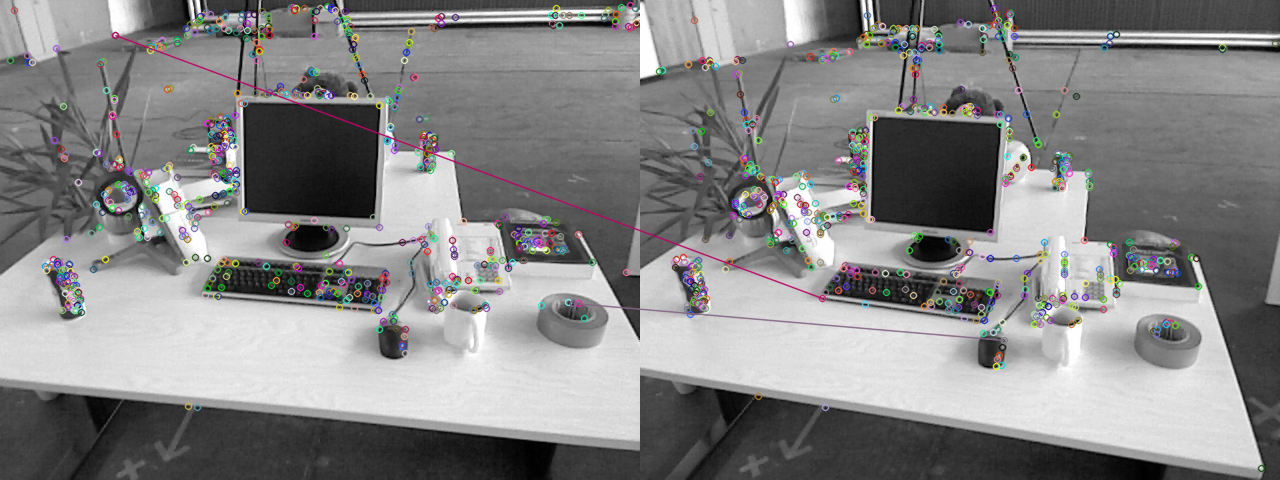
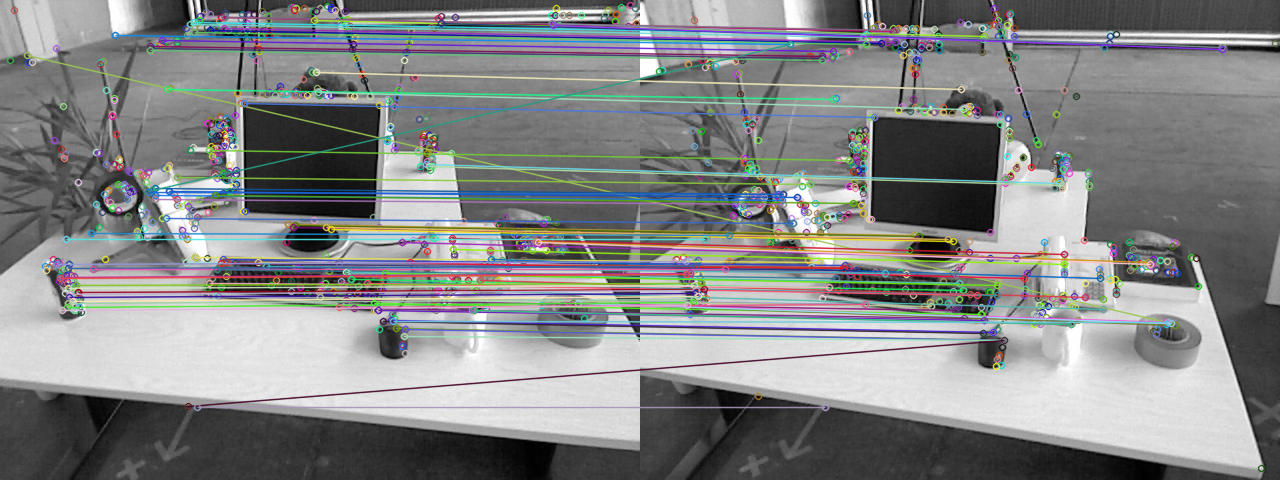
t1: ORB_self

diff --git a/PA5/t1/computeORB.cpp b/PA5/t1/computeORB.cpp
@@ -107,20 +107,26 @@ int main(int argc, char **argv) {
 // compute the angle
 void computeAngle(const cv::Mat &image, vector<cv::KeyPoint> &keypoints) {
     int half_patch_size = 8;
-    int MaxRows = image.rows;
-    int MaxCols = image.cols;
     for (auto &kp : keypoints) {
-	// START YOUR CODE HERE (~7 lines)
-	    if (kp.pt.x<8 || kp.pt.y < 8 || kp.pt.y>MaxCols-7 || kp.pt.x>MaxRows)
+        // START YOUR CODE HERE (~7 lines)
+        float m01 = 0, m10 = 0;
+	    if (kp.pt.x < half_patch_size || kp.pt.y < half_patch_size ||
+	        kp.pt.x > image.cols - half_patch_size || kp.pt.y > image.rows - half_patch_size)
             continue;
-	    double m01 = 0; double m10 = 0;
-	    for(int x = kp.pt.x-half_patch_size; x < kp.pt.x+half_patch_size; x++)
-	        for(int y = kp.pt.y - half_patch_size; y < kp.pt.y+half_patch_size; y++)
+	    else{
+	        for(int row = -half_patch_size; row < half_patch_size; ++row)
 	        {
-	            m01 += y*image.at<double>(y, x);
-	            m10 += x*image.at<double>(y, x);
+	            const auto *row_ptr = image.ptr<uchar>(kp.pt.y + row);
+	            for(int col = -half_patch_size; col < half_patch_size; ++col)
+	            {
+	                const auto *data_ptr = &row_ptr[size_t(kp.pt.x + col) * image.channels()];
+	                uchar pixel = *data_ptr;
+	                m10 += col * pixel; // here col is offset of x axis
+	                m01 += row * pixel; // here row is offset of y axis
+	            }
 	        }
-        kp.angle = 180/pi*std::atan2(m01, m10); // compute kp.angle
+	    }
+	    kp.angle = std::atan2(m01, m10)/pi*360;
         // END YOUR CODE HERE
     }
     return;
@@ -391,15 +397,15 @@ int ORB_pattern[256 * 4] = {
 void computeORBDesc(const cv::Mat &image, vector<cv::KeyPoint> &keypoints, vector<DescType> &desc) {
     for (auto &kp: keypoints) {
         DescType d(256, false); // vector<bool>
-        float CosTheta = std::cos(kp.angle*pi/180);
-        float SinTheta = std::sin(kp.angle*pi/180);
+        float CosTheta = std::cos(kp.angle*pi/180.0);
+        float SinTheta = std::sin(kp.angle*pi/180.0);
         for (int i = 0; i < 256; i++) {
             // START YOUR CODE HERE (~7 lines)
-            cv::Point2f p(ORB_pattern[i+0],ORB_pattern[i+1]);
-            cv::Point2f q(ORB_pattern[i+2], ORB_pattern[i+3]);
+            cv::Point2f p(ORB_pattern[4*i],ORB_pattern[4*i+1]);
+            cv::Point2f q(ORB_pattern[4*i+2], ORB_pattern[4*i+3]);
             cv::Point2f pp = cv::Point2f(CosTheta*p.x-SinTheta*p.y, SinTheta*p.x+CosTheta*p.y) + kp.pt;
             cv::Point2f qq = cv::Point2f(CosTheta*q.x-SinTheta*q.y, SinTheta*q.x+CosTheta*q.y) + kp.pt;
-            if(pp.x<0 || pp.y<0 || qq.x<0 || qq.y<0 ||
+            if(pp.x < 0 || pp.y < 0 || qq.x < 0 || qq.y < 0 ||
                 pp.x >= image.cols || pp.y >= image.rows || qq.x >= image.cols || qq.y >= image.rows)
             {
                 d.clear();
@@ -407,11 +413,7 @@ void computeORBDesc(const cv::Mat &image, vector<cv::KeyPoint> &keypoints, vecto
             }
             else
             {
-                if(image.at<uchar>(pp.y, pp.x) <= image.at<uchar>(qq.y, qq.x))
-                    d[i] = 1;
-                else{
-                    d[i] = 0;// if kp goes outside, set d.clear()
-                }
+                d[i] = image.at<uchar>(pp.y, pp.x) <= image.at<uchar>(qq.y, qq.x);
             }
 	    // END YOUR CODE HERE
         }
@@ -434,27 +436,18 @@ void bfMatch(const vector<DescType> &desc1, const vector<DescType> &desc2, vecto
     // find matches between desc1 and desc2.
     for(int i = 0; i < desc1.size(); i++)
     {
-        if(desc1.at(i).size() == 0)
-        {
+        if(desc1.at(i).empty())
             continue;
-        }
         int Min_d = 50;
         int Min_j = 0;
         for(int j = 0; j < desc2.size(); j++)
         {
             if(desc2.at(j).size() == 0)
-            {
                 continue;
-            }
             int S = 0;
             for(int b = 0; b < 256; b++)
             {
-                int B1 = desc1.at(i).at(b);
-                int B2 = desc2.at(j).at(b);
-                if (B1 - B2 == 0)
-                {
-                    S++;
-                }
+                S += (desc1[i][b] == desc2[j][b]) ? 0 : 1;
             }
             if(S <= Min_d)
             {
